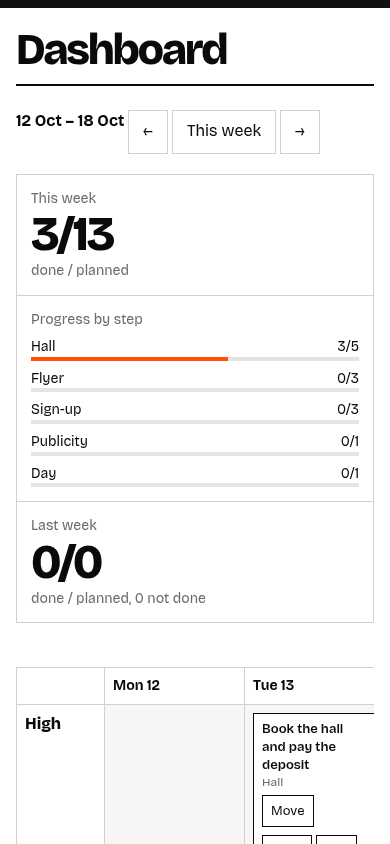
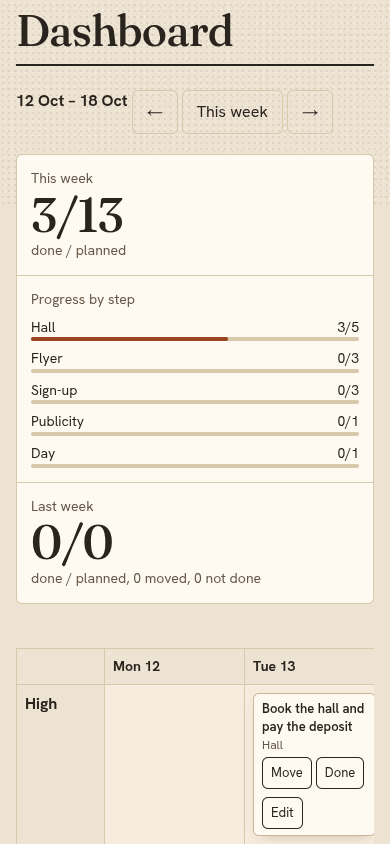
Retake screenshots in the new themes; README shows all four

diff --git a/docs/STATUS.md b/docs/STATUS.md
@@ -1,7 +1,8 @@
 # Status
 Update at the end of every session. Max 5 lines per stage. Newest at top.
 - D-17 (2026-10-19): somaari-site themes replace Kinetic light/dark: warm-tactile (default), liquid-glass, dasara-jamboo, rajyotsava; js/theme.js (blocking, ?theme= preview, IST seasonal schedule same as site), Theme popover in panel footer, fonts self-hosted in web/fonts (OFL-*.txt), Bricolage removed. UI_SPEC/GUIDE/ARCHITECTURE/README updated. tests 88 (+node schedule test).
-- Manual: walk all pages in each theme (?theme=<id>) at 380 px and keyboard (Theme popover: Esc, tab out); README screenshots still show the old look, retake.
+- Manual: walk all pages in each theme (?theme=<id>) at 380 px and keyboard (Theme popover: Esc, tab out).
+- Screenshots retaken (2026-10-19) in Warm Tactile, demo seed shifted to 12 Oct, clock fixed Wed 14 Oct; README shows all 4 themes (theme-<id>.png replace light/dark.png).
 - Fix (2026-10-19): Dasara Theme popover text was cream on cream (now dark ink); panel sticky 100vh above 900px so Theme is reachable on long pages (Done, Settings, About).
 - D-16 (2026-10-18): all LLM models configurable: [ai.models] per provider (Settings → Models), new openai_compat provider (openai_base_url, OPENAI_API_KEY; no key for LAN/loopback hosts); generate cache key includes the model; About shows configured models. Defaults unchanged, never Claude (D-02 amended). tests 87.
 - Manual: Settings → Models at 380 px, both themes; one real call with a non-default OpenRouter model and one with a local LM Studio/llama.cpp server via openai_compat.

diff --git a/docs/GUIDE.md b/docs/GUIDE.md
@@ -17,7 +17,7 @@ For how it works inside, privacy, the API and development, see the [README](../R
 
 </div>
 
-<img src="screenshots/light.png" alt="Dashboard: this week's tasks by day and priority" width="100%">
+<img src="screenshots/theme-warm-tactile.png" alt="Dashboard: this week's tasks by day and priority" width="100%">
 
 > [!NOTE]
 > All screenshots use neutral demo data (a book swap plan and a garden plan), not real tasks.
@@ -270,7 +270,7 @@ either way.
 
 ### The Settings page
 
-<img src="screenshots/settings.png" alt="Settings: AI mode, Jev model, date format, generate chain and thresholds" width="100%">
+<img src="screenshots/settings.png" alt="Settings: AI mode, Jev model, date format and generate chain" width="100%">
 
 **Settings** (bottom of the menu) edits everything in `[ai]` and `[ui]`: mode, Jev model, prose
 rewriting, timeout, date format, the generate chain (add, reorder, remove, and **Test** each

diff --git a/README.md b/README.md
@@ -29,9 +29,11 @@ dated tasks you can see by day, week and priority. One person, one Raspberry Pi,
 
 </div>
 
-| Light | Dark |
+| Warm Tactile | Liquid Glass |
 |---|---|
-| ![Dashboard, light theme (demo data)](docs/screenshots/light.png) | ![Dashboard, dark theme (demo data)](docs/screenshots/dark.png) |
+| ![Dashboard, Warm Tactile theme (demo data)](docs/screenshots/theme-warm-tactile.png) | ![Dashboard, Liquid Glass theme (demo data)](docs/screenshots/theme-liquid-glass.png) |
+| **Dasara – Jamboo Savari** | **Kannada Rajyotsava** |
+| ![Dashboard, Dasara – Jamboo Savari theme (demo data)](docs/screenshots/theme-dasara-jamboo.png) | ![Dashboard, Kannada Rajyotsava theme (demo data)](docs/screenshots/theme-rajyotsava.png) |
 
 > [!WARNING]
 > There's no login: anyone who can reach the port can read and change your tasks. Keep it on your
